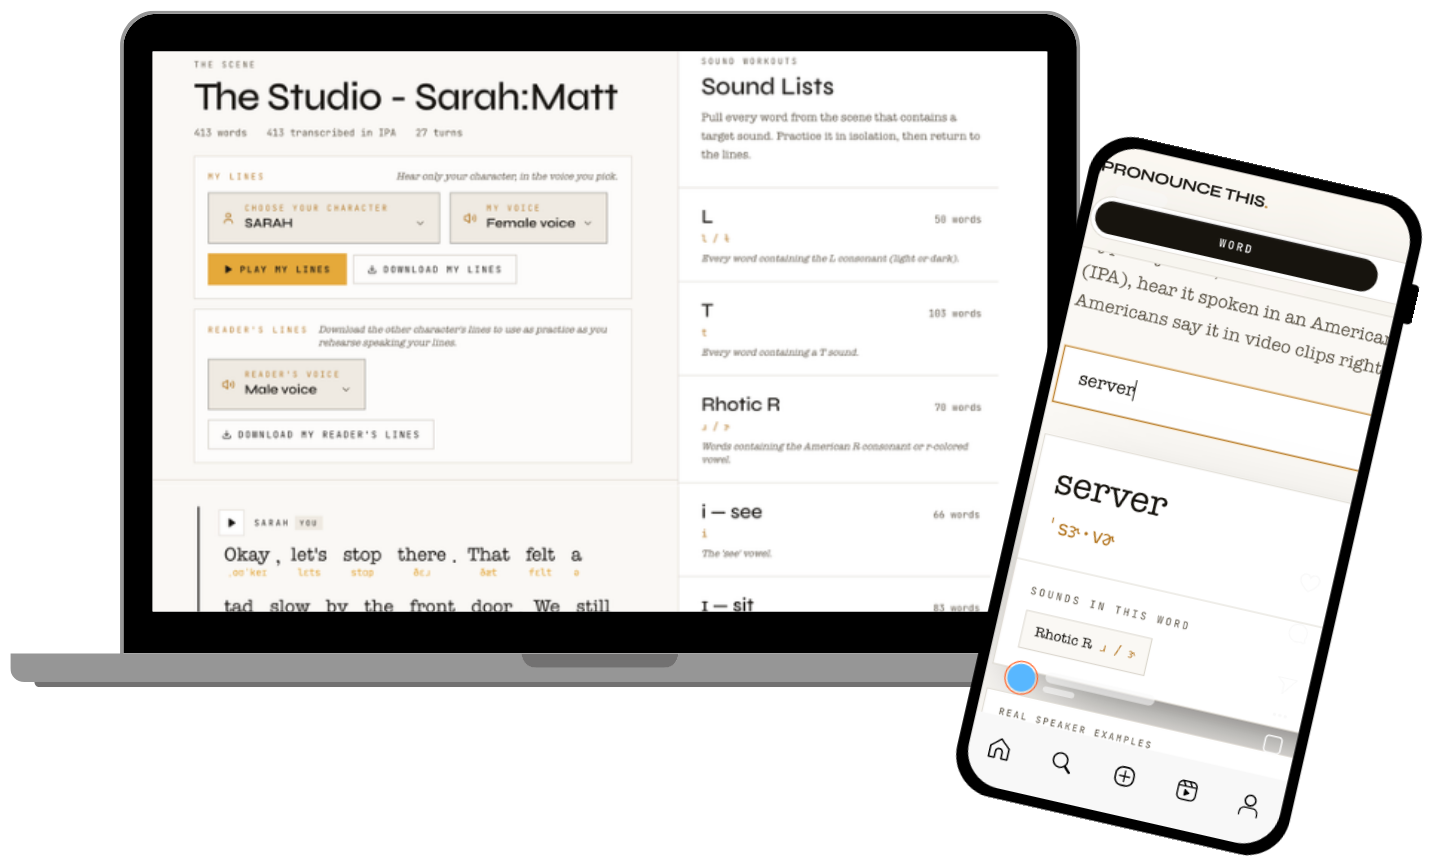
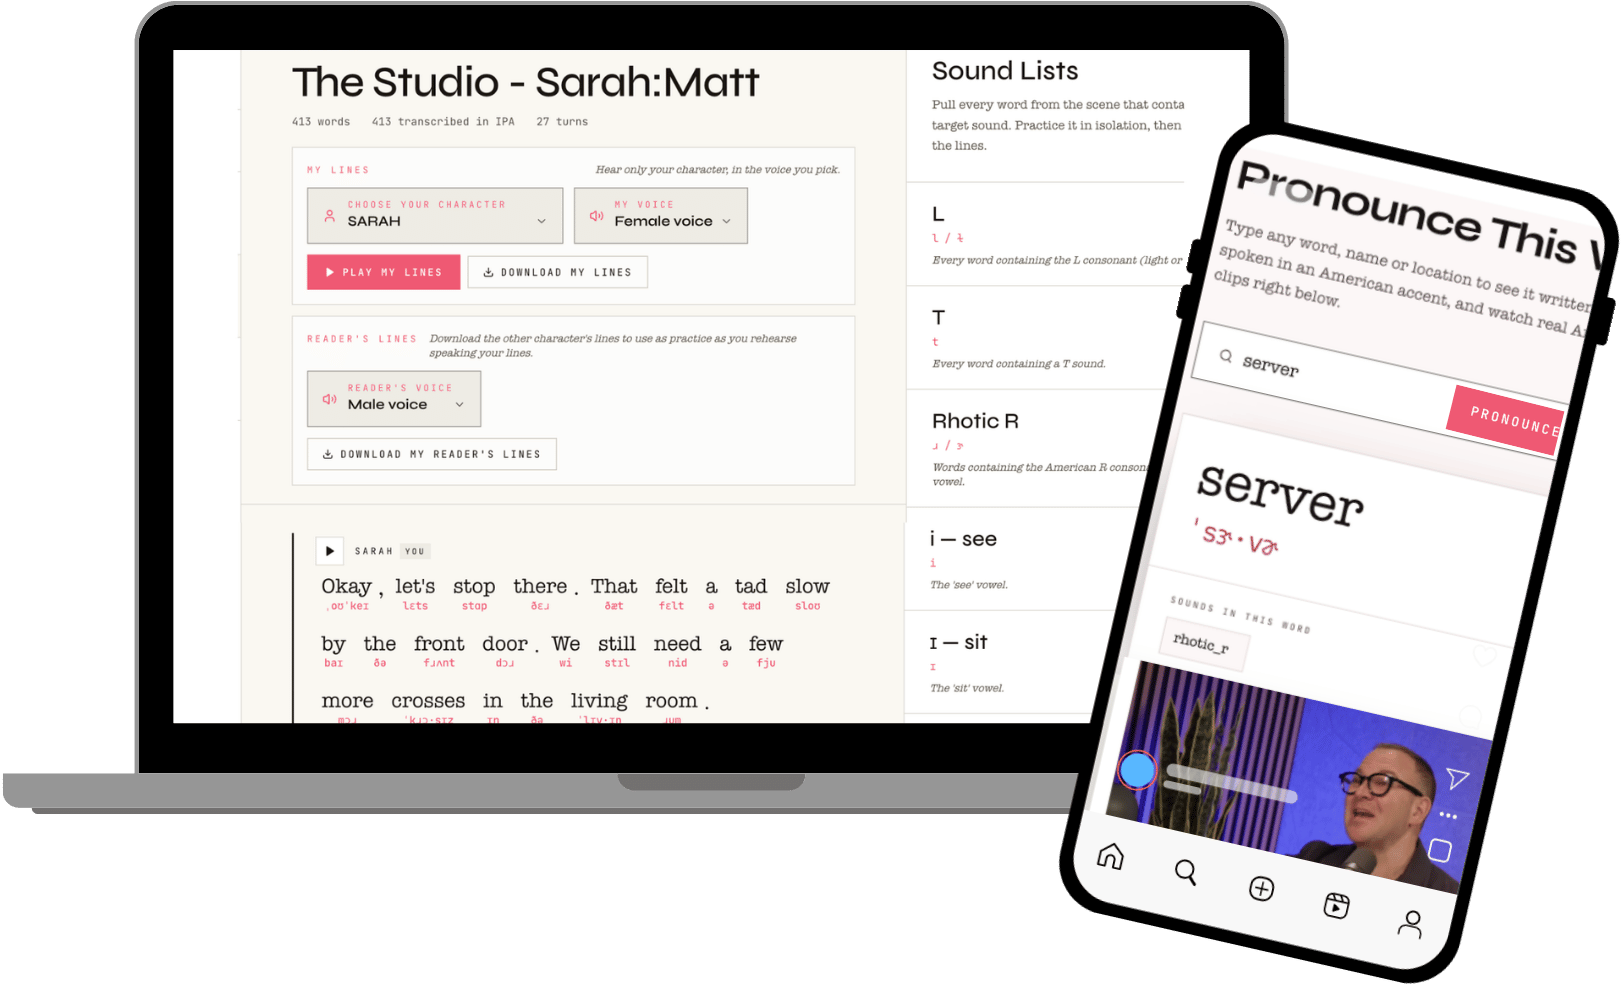
I have updated the feature titles to "Pronounce This Word" and "Pronounce This Scene" on the Word page, Scene section, and upload page, as well as on the main page. The current deployment was triggered before this update, so it won't reflect these changes yet. Please allow the deployment to finish a
Emergent-Commit-Key: b86e36bd2b14359b71e1f3b2995317de8bb80f2799259a97e7378e71a81c7678

Changed region(s): [[0.0, 0.0, 1.0, 1.0], [0.5834, 0.5924, 0.6141, 0.6547], [0.7676, 0.6236, 0.7983, 0.6547]]

diff --git a/frontend/src/components/landing/LandingPage.jsx b/frontend/src/components/landing/LandingPage.jsx
@@ -74,7 +74,7 @@ export default function LandingPage() {
           <p>You need your dialogue recorded so you can listen and repeat as you practice speaking your line in a standard American accent.</p>
           <p>You need to run lines and practice, and need a resource to help be your reader when you don't have anyone available to help you.</p>
           <hr />
-          <h3>What are you going to do when you get the audition, the self-tape is due and you're not sure if you're pronouncing all the words correctly?</h3>
+          <h3>What are you going to do when you get the audition, the<br className="h3-break" />self-tape is due and you're not sure if you're pronouncing all the words correctly?</h3>
           <div className="tried">
             {TRIED.map(([what, why]) => (
               <div className="tried-row" key={what}>
@@ -88,10 +88,10 @@ export default function LandingPage() {
 
       <section className="ways" id="scenes">
         <div className="wrap">
-          <h2>Ways to use Pronounce This.</h2>
+          <h2 className="inline-logo-line">Ways to use <img src="/landing/logo@600.png" alt="Pronounce This." className="inline-logo" /></h2>
           <div className="feature">
             <div className="feature-text">
-              <h3>Pronounce a word</h3>
+              <h3>Pronounce This Word</h3>
               <p>Type any word, name or location and hear how it's pronounced, see it spelled phonetically, and hear American speakers on YouTube say the word.</p>
               <ul>
                 <li>Instant IPA transcription for any word, name, or place</li>
@@ -105,7 +105,7 @@ export default function LandingPage() {
           </div>
           <div className="feature feature--flip">
             <div className="feature-text">
-              <h3>Pronounce your scene</h3>
+              <h3>Pronounce This Scene</h3>
               <p>Got an audition or working on a role? Upload your scene, choose your character, and hear it spoken in the accent, word by word.</p>
               <ul>
                 <li>See each word transcribed in American IPA</li>
@@ -115,7 +115,7 @@ export default function LandingPage() {
               </ul>
             </div>
             <div className="feature-shot">
-              <img src="/landing/scene-tool.jpg?v=light" alt="Pronounce your scene tool showing a scene with lines transcribed in IPA and sound lists" />
+              <img src="/landing/scene-tool.jpg?v=light" alt="Pronounce This Scene tool showing a scene with lines transcribed in IPA and sound lists" />
             </div>
           </div>
         </div>
@@ -160,7 +160,7 @@ export default function LandingPage() {
       <section className="closing">
         <div className="wrap">
           <h2>Get ready for your next role<span className="dot">.</span></h2>
-          <p>Bring your scene. Leave knowing exactly how it sounds in an American accent.</p>
+          <p className="inline-logo-line">It's time to prepare for your next American accent audition with <img src="/landing/logo@600.png" alt="Pronounce This." className="inline-logo inline-logo--sm" /></p>
           <TryButton onClick={tryFree} testid="landing-cta-closing" />
         </div>
       </section>

diff --git a/frontend/src/components/PronouncePage.jsx b/frontend/src/components/PronouncePage.jsx
@@ -75,10 +75,7 @@ export default function PronouncePage({ onGoToScenes }) {
     <div className="flex-1 overflow-auto bg-paper" data-testid="pronounce-page">
       <div className="max-w-3xl mx-auto px-5 sm:px-10 lg:px-14 py-8 sm:py-12 lg:py-16">
         <div className="mb-8 sm:mb-10">
-          <div className="reveal font-mono text-[10px] uppercase tracking-[0.28em] text-rust mb-3">
-            An American Accent Pronunciation Tool
-          </div>
-          <h1 className="reveal reveal-2 font-display font-bold text-3xl sm:text-4xl lg:text-5xl text-ink leading-[0.98] tracking-tight">
+          <h1 className="reveal font-display font-bold text-3xl sm:text-4xl lg:text-5xl text-ink leading-[0.98] tracking-tight">
             Pronounce This Word<span className="text-rust">.</span>
           </h1>
           <p className="reveal reveal-3 mt-4 sm:mt-5 text-lg sm:text-lg text-muted2 font-serif leading-relaxed max-w-2xl">
@@ -129,11 +126,11 @@ export default function PronouncePage({ onGoToScenes }) {
           <div className="mt-8 sm:mt-10 border thin-rule bg-surface animate-fade-in shadow-[0_30px_80px_-40px_rgba(0,0,0,0.9)]" data-testid="pronounce-result">
             <div className="px-5 sm:px-8 py-6 sm:py-8 border-b thin-rule flex items-start justify-between gap-4 sm:gap-6 flex-wrap">
               <div className="min-w-0">
-                <div className="font-serif text-4xl sm:text-5xl lg:text-6xl text-ink leading-none break-words">
+                <div className="font-typewriter text-4xl sm:text-5xl lg:text-6xl text-ink leading-none break-words">
                   {result.word}
                 </div>
                 {hasVariants ? null : result.ipa ? (
-                  <div className="font-mono text-xl sm:text-2xl lg:text-3xl text-rust mt-3 tracking-tight break-words" data-testid="pronounce-ipa">
+                  <div className="font-typewriter text-xl sm:text-2xl lg:text-3xl text-rust mt-3 tracking-tight break-words" data-testid="pronounce-ipa">
                     {result.ipa}
                   </div>
                 ) : (

diff --git a/frontend/src/components/landing/landing.css b/frontend/src/components/landing/landing.css
@@ -61,9 +61,14 @@
 .landing .topbar{padding:14px 0 0;}
 .landing .topbar .wrap{text-align:right;}
 .landing .hero{padding:28px 0 64px;}
-.landing .logo-line{margin:0 0 26px;line-height:0;}
+.landing .logo-line{margin:0 0 10px;line-height:0;}
 .landing .logo{width:min(440px, 78vw);height:auto;display:inline-block;}
-.landing .lede{font-family:var(--font-head);font-style:italic;font-weight:700;font-size:clamp(1.25rem, 2.4vw, 1.6rem);color:var(--ink);margin:0 auto 36px;max-width:40ch;}
+.landing .lede{font-family:var(--font-head);font-style:italic;font-weight:400;font-size:clamp(1rem, 1.6vw, 1.2rem);color:var(--ink);margin:0 auto 32px;max-width:none;white-space:nowrap;}
+@media (max-width:480px){ .landing .lede{white-space:normal;font-size:1rem;} }
+.landing .inline-logo{display:inline-block;height:0.82em;width:auto;vertical-align:baseline;position:relative;top:0.02em;margin-left:0.12em;}
+.landing .inline-logo--sm{height:0.9em;}
+.landing .h3-break{display:none;}
+@media (min-width:900px){ .landing .h3-break{display:inline;} }
 .landing .device-shot{max-width:760px;margin:0 auto 40px;}
 .landing .device-shot img{display:block;width:100%;height:auto;}
 
@@ -131,6 +136,7 @@
 .landing .closing{background:var(--cream);padding:96px 0;}
 .landing .closing h2{font-size:clamp(2rem, 4vw, 2.75rem);}
 .landing .closing p{max-width:46ch;margin:0 auto 32px;}
+.landing .closing p.inline-logo-line{max-width:none;}
 
 .landing footer{font-size:0.85rem;color:var(--ink-soft);padding:26px 20px calc(26px + env(safe-area-inset-bottom, 0px));border-top:1px solid var(--line);}
 

diff --git a/frontend/src/App.js b/frontend/src/App.js
@@ -1,4 +1,5 @@
 import React, { useEffect, useState, useCallback } from "react";
+import Logo from "@/components/Logo";
 import { Toaster } from "sonner";
 import ScenesSidebar from "@/components/ScenesSidebar";
 import SceneReader from "@/components/SceneReader";
@@ -58,9 +59,9 @@ export default function AppRoot() {
             color: "#F1F2F6",
             border: "1px solid #2D303B",
             borderRadius: 0,
-            fontFamily: "JetBrains Mono, monospace",
-            fontSize: "12px",
-            letterSpacing: "0.05em",
+            fontFamily: "Open Sans, sans-serif",
+            fontSize: "13px",
+            letterSpacing: "0.02em",
           },
         }}
       />
@@ -317,9 +318,9 @@ function Header({ tab, onSwitchTab }) {
       data-testid="app-header"
     >
       <div className="px-4 sm:px-8 py-3 sm:py-4 flex items-center justify-between gap-3 sm:gap-6">
-        <div className="font-display font-bold text-base sm:text-xl text-ink leading-none tracking-tight uppercase whitespace-nowrap">
-          Pronounce This<span className="text-rust">.</span>
-        </div>
+        <a href="/" className="flex items-center leading-none" data-testid="header-logo" aria-label="Pronounce This home">
+          <Logo className="h-5 sm:h-6" />
+        </a>
         <TabNav tab={tab} onSwitchTab={onSwitchTab} className="hidden sm:flex" />
         <AccountChip />
       </div>

diff --git a/frontend/src/components/ResetPasswordPage.jsx b/frontend/src/components/ResetPasswordPage.jsx
@@ -1,4 +1,5 @@
 import React, { useEffect, useState } from "react";
+import Logo from "./Logo";
 import { Loader2, Check, Lock } from "lucide-react";
 import { supabase, passwordProblem } from "@/lib/supabase";
 
@@ -41,7 +42,7 @@ export default function ResetPasswordPage() {
   return (
     <div className="theme-light min-h-screen flex items-center justify-center bg-paper px-4" data-testid="reset-page">
       <div className="w-full max-w-md bg-surface border thin-rule px-8 py-10">
-        <div className="font-mono text-[10px] uppercase tracking-[0.28em] text-muted2 text-center">Pronounce This</div>
+        <div className="text-center"><Logo className="h-5" /></div>
         <h1 className="font-display text-2xl text-ink text-center mt-2 mb-6" data-testid="reset-title">Choose a new password</h1>
         {ready === null ? (
           <p className="font-serif text-sm text-muted2 italic text-center"><Loader2 size={14} className="inline animate-spin mr-2" />Checking your link…</p>

diff --git a/frontend/src/components/LoginModal.jsx b/frontend/src/components/LoginModal.jsx
@@ -1,4 +1,5 @@
 import React, { useEffect, useState } from "react";
+import Logo from "./Logo";
 import { X } from "lucide-react";
 import { useAuth } from "@/lib/auth";
 import AuthForm from "./AuthForm";
@@ -30,7 +31,7 @@ export default function LoginModal() {
       <div className="theme-light relative w-full max-w-md bg-surface border thin-rule shadow-2xl max-h-[92dvh] overflow-y-auto" onClick={(e) => e.stopPropagation()}>
         <div className="flex items-center justify-between px-6 py-4 border-b thin-rule">
           <div>
-            <div className="font-mono text-xs uppercase tracking-[0.22em] text-muted2">Pronounce This</div>
+            <Logo className="h-4 mb-1.5" />
             <div className="font-display text-2xl text-ink" data-testid="login-title">{TITLES[mode]}</div>
           </div>
           <button type="button" className="text-muted2 hover:text-ink p-1" onClick={closeLogin} aria-label="Close" data-testid="login-close">

diff --git a/frontend/src/components/SupportModal.jsx b/frontend/src/components/SupportModal.jsx
@@ -1,4 +1,5 @@
 import React, { useEffect } from "react";
+import Logo from "./Logo";
 import { createPortal } from "react-dom";
 import { X, Mail, Copy } from "lucide-react";
 import { toast } from "sonner";
@@ -24,7 +25,7 @@ export default function SupportModal({ open, onClose }) {
       <div className="theme-light relative w-full max-w-md bg-surface border thin-rule shadow-2xl" onClick={(e) => e.stopPropagation()}>
         <div className="flex items-center justify-between px-6 py-4 border-b thin-rule">
           <div>
-            <div className="font-mono text-[10px] uppercase tracking-[0.28em] text-muted2">Pronounce This</div>
+            <Logo className="h-4 mb-1.5" />
             <div className="font-display text-2xl text-ink">Contact support</div>
           </div>
           <button type="button" className="text-muted2 hover:text-ink p-1" onClick={onClose} aria-label="Close" data-testid="support-close"><X size={20} /></button>

diff --git a/frontend/src/components/PaymentSuccessPage.jsx b/frontend/src/components/PaymentSuccessPage.jsx
@@ -1,4 +1,5 @@
 import React, { useEffect, useState } from "react";
+import Logo from "./Logo";
 import { Loader2, Check, XCircle, Mail } from "lucide-react";
 import { getPaymentStatus } from "@/lib/api";
 import AuthForm from "./AuthForm";
@@ -64,9 +65,7 @@ export default function PaymentSuccessPage() {
   return (
     <div className="min-h-screen bg-paper flex items-center justify-center px-4">
       <div className="w-full max-w-md bg-surface border thin-rule px-8 py-12 text-center">
-        <div className="font-mono text-[10px] uppercase tracking-[0.28em] text-muted2">
-          Pronounce This
-        </div>
+        <div className="flex justify-center"><Logo className="h-5" /></div>
         {state === "checking" && (
           <>
             <div className="inline-flex items-center justify-center w-14 h-14 border thin-rule bg-paper my-5">

diff --git a/frontend/src/components/VerifyPage.jsx b/frontend/src/components/VerifyPage.jsx
@@ -1,4 +1,5 @@
 import React, { useEffect, useRef, useState } from "react";
+import Logo from "./Logo";
 import { Loader2, Check, XCircle } from "lucide-react";
 import { verifyMagicLink } from "@/lib/api";
 import { useAuth } from "@/lib/auth";
@@ -69,9 +70,7 @@ export default function VerifyPage() {
   return (
     <div className="min-h-screen flex items-center justify-center bg-paper px-4">
       <div className="w-full max-w-md bg-surface border thin-rule px-8 py-12 text-center">
-        <div className="font-mono text-[10px] uppercase tracking-[0.28em] text-muted2">
-          Pronounce This
-        </div>
+        <div className="flex justify-center"><Logo className="h-5" /></div>
         {state === "verifying" && (
           <>
             <div className="inline-flex items-center justify-center w-14 h-14 border thin-rule bg-paper my-5">

diff --git a/frontend/src/components/PaymentCancelPage.jsx b/frontend/src/components/PaymentCancelPage.jsx
@@ -1,4 +1,5 @@
 import React from "react";
+import Logo from "./Logo";
 import { XCircle } from "lucide-react";
 
 // Landing spot when a Stripe Checkout is cancelled (user clicked back or
@@ -7,9 +8,7 @@ export default function PaymentCancelPage() {
   return (
     <div className="min-h-screen bg-paper flex items-center justify-center px-4">
       <div className="w-full max-w-md bg-surface border thin-rule px-8 py-12 text-center">
-        <div className="font-mono text-[10px] uppercase tracking-[0.28em] text-muted2">
-          Pronounce This
-        </div>
+        <div className="flex justify-center"><Logo className="h-5" /></div>
         <div className="inline-flex items-center justify-center w-14 h-14 border thin-rule bg-paper my-5">
           <XCircle size={22} className="text-muted2" />
         </div>

diff --git a/frontend/tailwind.config.js b/frontend/tailwind.config.js
@@ -15,9 +15,10 @@ module.exports = {
     },
     extend: {
       fontFamily: {
-        display: ['"Syne"', "-apple-system", "BlinkMacSystemFont", "sans-serif"],
-        serif: ['"American Typewriter"', '"Courier Prime"', '"Courier New"', "monospace"],
-        mono: ['"JetBrains Mono"', '"IBM Plex Mono"', "ui-monospace", "monospace"],
+        display: ['"PT Sans"', '"Helvetica Neue"', "Arial", "sans-serif"],
+        serif: ['"Open Sans"', "-apple-system", "BlinkMacSystemFont", "sans-serif"],
+        mono: ['"Open Sans"', "-apple-system", "BlinkMacSystemFont", "sans-serif"],
+        typewriter: ['"Courier Prime"', '"American Typewriter"', '"Courier New"', "monospace"],
       },
       colors: {
         stage: "#F4F1EA",

diff --git a/frontend/src/index.css b/frontend/src/index.css
@@ -13,9 +13,9 @@
   --muted2: #989dae;
   --amber: #ef5973;
   --amber-hi: #d94a63;
-  --font-type: "American Typewriter", "Courier Prime", "Courier New", monospace;
-  --font-mono: "JetBrains Mono", "IBM Plex Mono", ui-monospace, monospace;
-  --font-display: "Syne", -apple-system, BlinkMacSystemFont, sans-serif;
+  --font-type: "Open Sans", -apple-system, BlinkMacSystemFont, sans-serif;
+  --font-mono: "Open Sans", -apple-system, BlinkMacSystemFont, sans-serif;
+  --font-display: "PT Sans", "Helvetica Neue", Arial, sans-serif;
 }
 
 html,
